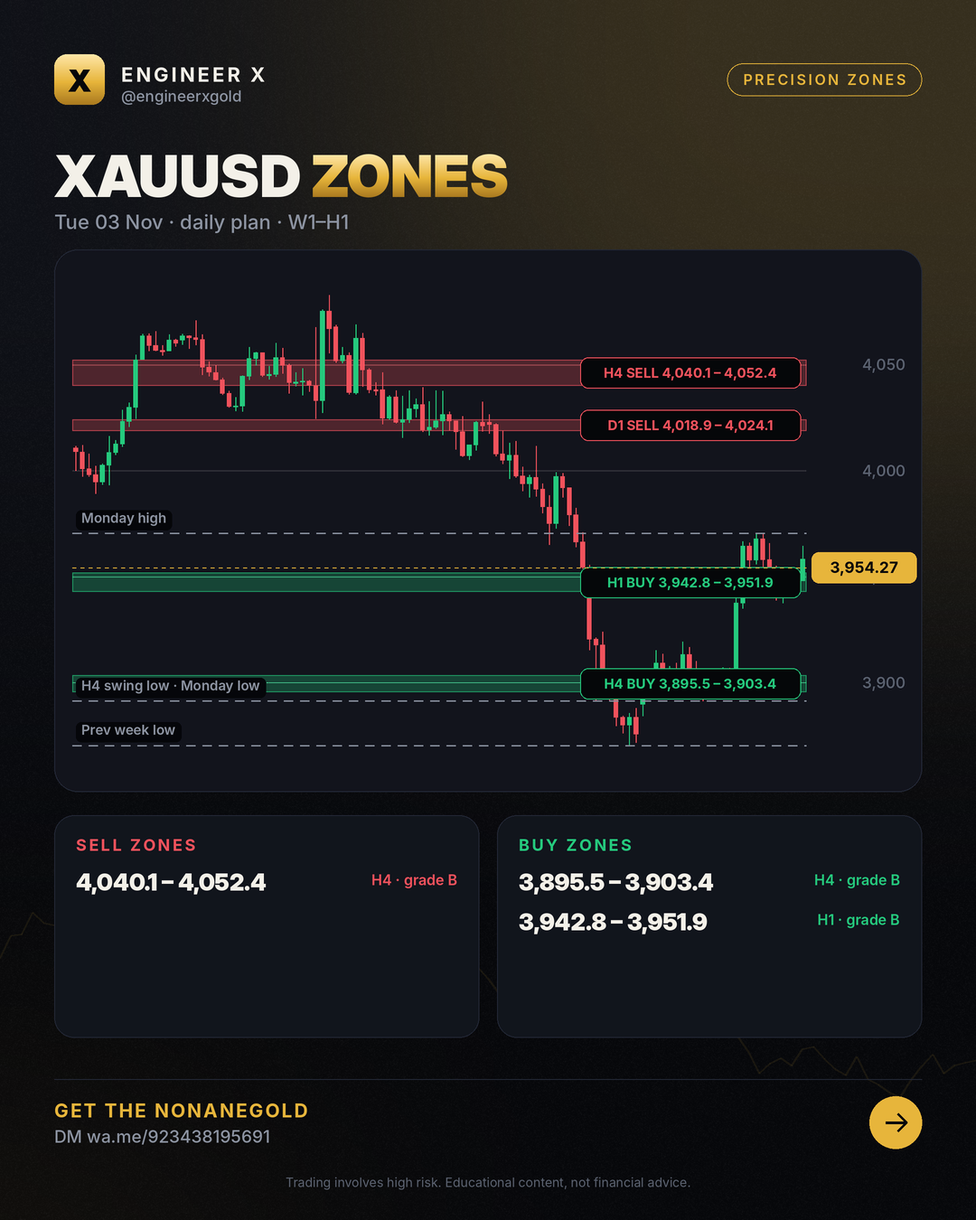
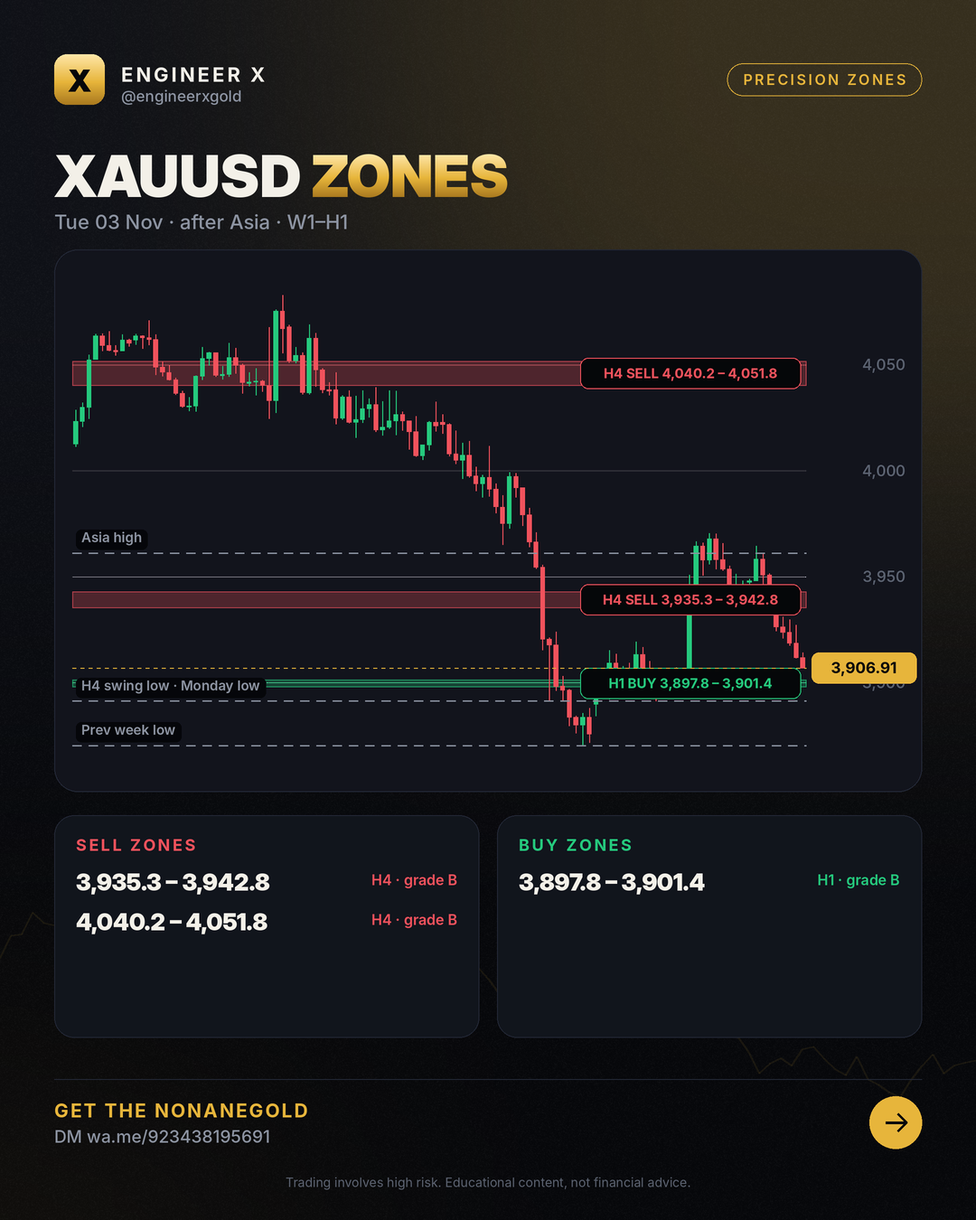
zones 2026-11-03 Tue 03 Nov · after Asia · W1–H1

diff --git a/zones/index.html b/zones/index.html
@@ -4,7 +4,7 @@
 <meta charset="utf-8">
 <meta name="viewport" content="width=device-width,initial-scale=1">
 <title>XAUUSD Zones Today – Buy &amp; Sell Zones (H4, H1) | Engineer X</title>
-<meta name="description" content="XAUUSD buy and sell zones for 2026-11-03: tested W1, D1, H4 and H1 zones with invalidation levels, updated after the Asian, London and New York sessions. Price 3,954.27.">
+<meta name="description" content="XAUUSD buy and sell zones for 2026-11-03: tested W1, D1, H4 and H1 zones with invalidation levels, updated after the Asian, London and New York sessions. Price 3,906.91.">
 <meta name="robots" content="index,follow,max-image-preview:large,max-snippet:-1,max-video-preview:-1">
 <meta name="author" content="Engr. M Ahmad Mehmood">
 <link rel="canonical" href="https://engineerxgold.github.io/zones/">
@@ -12,7 +12,7 @@
 <link rel="apple-touch-icon" href="../img/logo.png">
 <meta property="og:site_name" content="Engineer X">
 <meta property="og:title" content="XAUUSD Zones Today – Buy &amp; Sell Zones (H4, H1) | Engineer X">
-<meta property="og:description" content="XAUUSD buy and sell zones for 2026-11-03: tested W1, D1, H4 and H1 zones with invalidation levels, updated after the Asian, London and New York sessions. Price 3,954.27.">
+<meta property="og:description" content="XAUUSD buy and sell zones for 2026-11-03: tested W1, D1, H4 and H1 zones with invalidation levels, updated after the Asian, London and New York sessions. Price 3,906.91.">
 <meta property="og:type" content="website">
 <meta property="og:url" content="https://engineerxgold.github.io/zones/">
 <meta property="og:image" content="https://engineerxgold.github.io/zones/img/2026-11-03.png">
@@ -22,7 +22,7 @@
 <meta property="og:locale" content="en_US">
 <meta name="twitter:card" content="summary_large_image">
 <meta name="twitter:title" content="XAUUSD Zones Today – Buy &amp; Sell Zones (H4, H1) | Engineer X">
-<meta name="twitter:description" content="XAUUSD buy and sell zones for 2026-11-03: tested W1, D1, H4 and H1 zones with invalidation levels, updated after the Asian, London and New York sessions. Price 3,954.27.">
+<meta name="twitter:description" content="XAUUSD buy and sell zones for 2026-11-03: tested W1, D1, H4 and H1 zones with invalidation levels, updated after the Asian, London and New York sessions. Price 3,906.91.">
 <meta name="twitter:image" content="https://engineerxgold.github.io/zones/img/2026-11-03.png">
 <meta name="twitter:image:alt" content="XAUUSD Zones Today – Buy &amp; Sell Zones (H4, H1) | Engineer X">
 
@@ -101,7 +101,7 @@ footer .fl a{color:var(--muted);margin-right:16px}
 <div class="wrap">
 <nav><a class="logo" href="../"><b>X</b>Engineer X</a>
 <div class="links"><a href="../zones/">Daily Zones</a><a href="../blog/">Learn</a><a href="../ea/">Gold EA</a><a href="../about/">About</a><a class="cta" href="https://wa.me/923438195691">Get the EA</a></div></nav>
-<section class="hero"><span class="chip">Updated Tue 03 Nov · daily plan · W1–H1</span><h1>XAUUSD <span class="gold">precision zones</span></h1><p>XAUUSD buy and sell zones for 2026-11-03: tested W1, D1, H4 and H1 zones with invalidation levels, updated after the Asian, London and New York sessions. Price 3,954.27.</p></section><img src="img/2026-11-03.png" alt="Latest XAUUSD zone map" width="1080" height="1350"><section><h2>Current zones</h2><div style="overflow-x:auto"><table style="width:100%;border-collapse:collapse;font-size:15px"><tr><th align=left>Zone</th><th align=left>Price band</th><th>Grade</th><th align=left>Invalid</th><th align=left>Why</th></tr><tr><td>D1 sell</td><td><b>4,018.88 – 4,024.12</b></td><td>B</td><td>above 4,025.67</td><td>MSNR resistance levels (fresh): D GAP 4021.19, 4H A 4021.19, 1H GAP 4021.81, 15m OCL 4021.54. Wrong if price trades above 4025.67.; Confluence score 2: MSNR + S</td></tr><tr><td>H4 sell</td><td><b>4,040.08 – 4,052.42</b></td><td>B</td><td>above 4,053.96</td><td>Confluence score 2: SMC + QM</td></tr><tr><td>H1 buy</td><td><b>3,942.81 – 3,951.90</b></td><td>B</td><td>below 3,941.26</td><td>MSNR support levels (fresh): 1H GAP 3946.37, 30m V 3945.12, 15m GAP 3945.12, 15m GAP 3946.82, 15m V 3949.59. Wrong if price trades below 3941.26.; Confluence sc</td></tr><tr><td>H4 buy</td><td><b>3,895.50 – 3,903.42</b></td><td>B</td><td>below 3,893.95</td><td>MSNR support levels (fresh): 4H V 3897.81, 1H V 3901.11, 30m V 3901.11, 15m OCL 3901.11. Wrong if price trades below 3893.95.; Confluence score 5: MSNR + ICT + </td></tr></table></div></section><section><h2>Honest scorecard</h2><div class="grid"><div class="card"><div class="n">221</div><p>zones published (30 days)</p></div><div class="card"><div class="n">112</div><p>held (moved 1 hourly ATR away)</p></div><div class="card"><div class="n">19</div><p>broke (traded beyond the invalidation)</p></div><div class="card"><div class="n">85%</div><p>hold rate of decided zones</p></div></div></section><div class="ctabox"><h3>🤖 Trade the zones with the NonaneGold</h3><p>Free signals group access + setup help Message us and we will help you set it up.</p><div class="btns"><a class="btn gold" href="https://wa.me/923438195691">Get the EA on Telegram</a><a class="btn ghost" href="../ea/">About the EA</a></div></div><section><h2>Archive</h2><div class="grid posts"><a class="card" href="2026-11-03/"><span class="date">2026-11-03</span><h3>XAUUSD zones 2026-11-03</h3></a><a class="card" href="2026-11-02/"><span class="date">2026-11-02</span><h3>XAUUSD zones 2026-11-02</h3></a><a class="card" href="2026-10-30/"><span class="date">2026-10-30</span><h3>XAUUSD zones 2026-10-30</h3></a><a class="card" href="2026-10-29/"><span class="date">2026-10-29</span><h3>XAUUSD zones 2026-10-29</h3></a><a class="card" href="2026-10-28/"><span class="date">2026-10-28</span><h3>XAUUSD zones 2026-10-28</h3></a><a class="card" href="2026-10-27/"><span class="date">2026-10-27</span><h3>XAUUSD zones 2026-10-27</h3></a><a class="card" href="2026-10-26/"><span class="date">2026-10-26</span><h3>XAUUSD zones 2026-10-26</h3></a><a class="card" href="2026-10-23/"><span class="date">2026-10-23</span><h3>XAUUSD zones 2026-10-23</h3></a><a class="card" href="2026-10-22/"><span class="date">2026-10-22</span><h3>XAUUSD zones 2026-10-22</h3></a><a class="card" href="2026-10-21/"><span class="date">2026-10-21</span><h3>XAUUSD zones 2026-10-21</h3></a><a class="card" href="2026-10-20/"><span class="date">2026-10-20</span><h3>XAUUSD zones 2026-10-20</h3></a><a class="card" href="2026-10-19/"><span class="date">2026-10-19</span><h3>XAUUSD zones 2026-10-19</h3></a><a class="card" href="2026-10-16/"><span class="date">2026-10-16</span><h3>XAUUSD zones 2026-10-16</h3></a><a class="card" href="2026-10-15/"><span class="date">2026-10-15</span><h3>XAUUSD zones 2026-10-15</h3></a><a class="card" href="2026-10-14/"><span class="date">2026-10-14</span><h3>XAUUSD zones 2026-10-14</h3></a><a class="card" href="2026-10-13/"><span class="date">2026-10-13</span><h3>XAUUSD zones 2026-10-13</h3></a></div></section>
+<section class="hero"><span class="chip">Updated Tue 03 Nov · after Asia · W1–H1</span><h1>XAUUSD <span class="gold">precision zones</span></h1><p>XAUUSD buy and sell zones for 2026-11-03: tested W1, D1, H4 and H1 zones with invalidation levels, updated after the Asian, London and New York sessions. Price 3,906.91.</p></section><img src="img/2026-11-03.png" alt="Latest XAUUSD zone map" width="1080" height="1350"><section><h2>Current zones</h2><div style="overflow-x:auto"><table style="width:100%;border-collapse:collapse;font-size:15px"><tr><th align=left>Zone</th><th align=left>Price band</th><th>Grade</th><th align=left>Invalid</th><th align=left>Why</th></tr><tr><td>H4 sell</td><td><b>3,935.30 – 3,942.85</b></td><td>B</td><td>above 3,944.29</td><td>MSNR resistance levels (fresh): 4H SBR 3937.46, 15m GAP 3937.47, 15m GAP 3940.69. Wrong if price trades above 3944.29.; Confluence score 2: MSNR + ICT</td></tr><tr><td>H4 sell</td><td><b>4,040.23 – 4,051.76</b></td><td>B</td><td>above 4,053.20</td><td>Confluence score 2: SMC + QM</td></tr><tr><td>H1 buy</td><td><b>3,897.81 – 3,901.37</b></td><td>B</td><td>below 3,896.37</td><td>H1 demand: 2 small base candles (Mon 02 Nov 06:00 NY), then a strong move up (4.6x ATR). Untouched since. Wrong if price trades below 3897.04.; MSNR levels insi</td></tr></table></div></section><section><h2>Honest scorecard</h2><div class="grid"><div class="card"><div class="n">226</div><p>zones published (30 days)</p></div><div class="card"><div class="n">112</div><p>held (moved 1 hourly ATR away)</p></div><div class="card"><div class="n">20</div><p>broke (traded beyond the invalidation)</p></div><div class="card"><div class="n">85%</div><p>hold rate of decided zones</p></div></div></section><div class="ctabox"><h3>🤖 Trade the zones with the NonaneGold</h3><p>Free signals group access + setup help Message us and we will help you set it up.</p><div class="btns"><a class="btn gold" href="https://wa.me/923438195691">Get the EA on Telegram</a><a class="btn ghost" href="../ea/">About the EA</a></div></div><section><h2>Archive</h2><div class="grid posts"><a class="card" href="2026-11-03/"><span class="date">2026-11-03</span><h3>XAUUSD zones 2026-11-03</h3></a><a class="card" href="2026-11-02/"><span class="date">2026-11-02</span><h3>XAUUSD zones 2026-11-02</h3></a><a class="card" href="2026-10-30/"><span class="date">2026-10-30</span><h3>XAUUSD zones 2026-10-30</h3></a><a class="card" href="2026-10-29/"><span class="date">2026-10-29</span><h3>XAUUSD zones 2026-10-29</h3></a><a class="card" href="2026-10-28/"><span class="date">2026-10-28</span><h3>XAUUSD zones 2026-10-28</h3></a><a class="card" href="2026-10-27/"><span class="date">2026-10-27</span><h3>XAUUSD zones 2026-10-27</h3></a><a class="card" href="2026-10-26/"><span class="date">2026-10-26</span><h3>XAUUSD zones 2026-10-26</h3></a><a class="card" href="2026-10-23/"><span class="date">2026-10-23</span><h3>XAUUSD zones 2026-10-23</h3></a><a class="card" href="2026-10-22/"><span class="date">2026-10-22</span><h3>XAUUSD zones 2026-10-22</h3></a><a class="card" href="2026-10-21/"><span class="date">2026-10-21</span><h3>XAUUSD zones 2026-10-21</h3></a><a class="card" href="2026-10-20/"><span class="date">2026-10-20</span><h3>XAUUSD zones 2026-10-20</h3></a><a class="card" href="2026-10-19/"><span class="date">2026-10-19</span><h3>XAUUSD zones 2026-10-19</h3></a><a class="card" href="2026-10-16/"><span class="date">2026-10-16</span><h3>XAUUSD zones 2026-10-16</h3></a><a class="card" href="2026-10-15/"><span class="date">2026-10-15</span><h3>XAUUSD zones 2026-10-15</h3></a><a class="card" href="2026-10-14/"><span class="date">2026-10-14</span><h3>XAUUSD zones 2026-10-14</h3></a><a class="card" href="2026-10-13/"><span class="date">2026-10-13</span><h3>XAUUSD zones 2026-10-13</h3></a></div></section>
 <footer>
 <div class="warn"><b>Risk warning:</b> Trading gold, forex and CFDs carries a high risk of losing money and is not suitable for everyone. Past results do not guarantee future results. Everything on this site is educational and not financial advice. We are an introducing partner of our broker and may earn a commission on accounts opened through our link.</div>
 <p class="fl" style="margin-top:18px"><a href="../about/">About &amp; methodology</a><a href="../privacy.html">Privacy</a><a href="../terms.html">Terms &amp; risk disclosure</a><a href="../feed.xml">RSS</a><a href="https://t.me/engineerxgold">Telegram</a></p>

diff --git a/zones/2026-11-03/index.html b/zones/2026-11-03/index.html
@@ -4,7 +4,7 @@
 <meta charset="utf-8">
 <meta name="viewport" content="width=device-width,initial-scale=1">
 <title>Gold Support Resistance – 03 Nov 2026 (W1–H1)</title>
-<meta name="description" content="XAUUSD buy and sell zones for 2026-11-03: tested W1, D1, H4 and H1 zones with invalidation levels, updated after the Asian, London and New York sessions. Price 3,954.27.">
+<meta name="description" content="XAUUSD buy and sell zones for 2026-11-03: tested W1, D1, H4 and H1 zones with invalidation levels, updated after the Asian, London and New York sessions. Price 3,906.91.">
 <meta name="robots" content="index,follow,max-image-preview:large,max-snippet:-1,max-video-preview:-1">
 <meta name="author" content="Engr. M Ahmad Mehmood">
 <link rel="canonical" href="https://engineerxgold.github.io/zones/2026-11-03/">
@@ -12,7 +12,7 @@
 <link rel="apple-touch-icon" href="../../img/logo.png">
 <meta property="og:site_name" content="Engineer X">
 <meta property="og:title" content="Gold Support Resistance – 03 Nov 2026 (W1–H1)">
-<meta property="og:description" content="XAUUSD buy and sell zones for 2026-11-03: tested W1, D1, H4 and H1 zones with invalidation levels, updated after the Asian, London and New York sessions. Price 3,954.27.">
+<meta property="og:description" content="XAUUSD buy and sell zones for 2026-11-03: tested W1, D1, H4 and H1 zones with invalidation levels, updated after the Asian, London and New York sessions. Price 3,906.91.">
 <meta property="og:type" content="article">
 <meta property="og:url" content="https://engineerxgold.github.io/zones/2026-11-03/">
 <meta property="og:image" content="https://engineerxgold.github.io/zones/img/2026-11-03.png">
@@ -22,7 +22,7 @@
 <meta property="og:locale" content="en_US">
 <meta name="twitter:card" content="summary_large_image">
 <meta name="twitter:title" content="Gold Support Resistance – 03 Nov 2026 (W1–H1)">
-<meta name="twitter:description" content="XAUUSD buy and sell zones for 2026-11-03: tested W1, D1, H4 and H1 zones with invalidation levels, updated after the Asian, London and New York sessions. Price 3,954.27.">
+<meta name="twitter:description" content="XAUUSD buy and sell zones for 2026-11-03: tested W1, D1, H4 and H1 zones with invalidation levels, updated after the Asian, London and New York sessions. Price 3,906.91.">
 <meta name="twitter:image" content="https://engineerxgold.github.io/zones/img/2026-11-03.png">
 <meta name="twitter:image:alt" content="Gold Support Resistance – 03 Nov 2026 (W1–H1)">
 
@@ -32,7 +32,7 @@
 <link rel="preconnect" href="https://fonts.googleapis.com">
 <link rel="preconnect" href="https://fonts.gstatic.com" crossorigin>
 <link href="https://fonts.googleapis.com/css2?family=Inter:wght@400;500;600;800;900&display=swap" rel="stylesheet">
-<script type="application/ld+json">{"@context": "https://schema.org", "@type": "Organization", "@id": "https://engineerxgold.github.io/#organization", "name": "Engineer X", "url": "https://engineerxgold.github.io/", "logo": {"@type": "ImageObject", "url": "https://engineerxgold.github.io/img/logo.png", "width": 512, "height": 512}, "sameAs": ["https://t.me/engineerxgold"]}</script><script type="application/ld+json">{"@context": "https://schema.org", "@type": "Article", "headline": "Gold Support Resistance – 03 Nov 2026 (W1–H1)", "datePublished": "2026-11-03T08:00:00+05:00", "dateModified": "2026-11-03T06:04:14+05:00", "author": {"@type": "Person", "@id": "https://engineerxgold.github.io/about/#author", "name": "Engr. M Ahmad Mehmood", "url": "https://engineerxgold.github.io/about/", "jobTitle": "MQL5 Expert Advisor developer and gold market analyst", "worksFor": {"@id": "https://engineerxgold.github.io/#organization"}}, "publisher": {"@id": "https://engineerxgold.github.io/#organization"}, "image": "https://engineerxgold.github.io/zones/img/2026-11-03.png", "mainEntityOfPage": "https://engineerxgold.github.io/zones/2026-11-03/"}</script>
+<script type="application/ld+json">{"@context": "https://schema.org", "@type": "Organization", "@id": "https://engineerxgold.github.io/#organization", "name": "Engineer X", "url": "https://engineerxgold.github.io/", "logo": {"@type": "ImageObject", "url": "https://engineerxgold.github.io/img/logo.png", "width": 512, "height": 512}, "sameAs": ["https://t.me/engineerxgold"]}</script><script type="application/ld+json">{"@context": "https://schema.org", "@type": "Article", "headline": "Gold Support Resistance – 03 Nov 2026 (W1–H1)", "datePublished": "2026-11-03T08:00:00+05:00", "dateModified": "2026-11-03T13:03:56+05:00", "author": {"@type": "Person", "@id": "https://engineerxgold.github.io/about/#author", "name": "Engr. M Ahmad Mehmood", "url": "https://engineerxgold.github.io/about/", "jobTitle": "MQL5 Expert Advisor developer and gold market analyst", "worksFor": {"@id": "https://engineerxgold.github.io/#organization"}}, "publisher": {"@id": "https://engineerxgold.github.io/#organization"}, "image": "https://engineerxgold.github.io/zones/img/2026-11-03.png", "mainEntityOfPage": "https://engineerxgold.github.io/zones/2026-11-03/"}</script>
 
 <style>
 :root{--gold:#E7B53B;--gold-hi:#FFE7A8;--bg:#07080B;--bg2:#0E1016;--panel:#12151D;--line:#232836;--green:#25C97D;--red:#F0525C;--text:#F3F0E8;--muted:#8C93A1}
@@ -101,7 +101,7 @@ footer .fl a{color:var(--muted);margin-right:16px}
 <div class="wrap">
 <nav><a class="logo" href="../../"><b>X</b>Engineer X</a>
 <div class="links"><a href="../../zones/">Daily Zones</a><a href="../../blog/">Learn</a><a href="../../ea/">Gold EA</a><a href="../../about/">About</a><a class="cta" href="https://wa.me/923438195691">Get the EA</a></div></nav>
-<article><p class="crumbs"><a href="../../">Home</a> › <a href="../">Zones</a> › 2026-11-03</p><h1>Gold Support Resistance – 03 Nov 2026 (W1–H1)</h1><p class="byline">Tue 03 Nov · daily plan · W1–H1 · by Engr. M Ahmad Mehmood</p><img src="../img/2026-11-03.png" alt="XAUUSD zone map 2026-11-03" width="1080" height="1350" loading="eager"><h2>Zones</h2><div style="overflow-x:auto"><table style="width:100%;border-collapse:collapse;font-size:15px"><tr><th align=left>Zone</th><th align=left>Price band</th><th>Grade</th><th align=left>Invalid</th><th align=left>Why</th></tr><tr><td>D1 sell</td><td><b>4,018.88 – 4,024.12</b></td><td>B</td><td>above 4,025.67</td><td>MSNR resistance levels (fresh): D GAP 4021.19, 4H A 4021.19, 1H GAP 4021.81, 15m OCL 4021.54. Wrong if price trades above 4025.67.; Confluence score 2: MSNR + S</td></tr><tr><td>H4 sell</td><td><b>4,040.08 – 4,052.42</b></td><td>B</td><td>above 4,053.96</td><td>Confluence score 2: SMC + QM</td></tr><tr><td>H1 buy</td><td><b>3,942.81 – 3,951.90</b></td><td>B</td><td>below 3,941.26</td><td>MSNR support levels (fresh): 1H GAP 3946.37, 30m V 3945.12, 15m GAP 3945.12, 15m GAP 3946.82, 15m V 3949.59. Wrong if price trades below 3941.26.; Confluence sc</td></tr><tr><td>H4 buy</td><td><b>3,895.50 – 3,903.42</b></td><td>B</td><td>below 3,893.95</td><td>MSNR support levels (fresh): 4H V 3897.81, 1H V 3901.11, 30m V 3901.11, 15m OCL 3901.11. Wrong if price trades below 3893.95.; Confluence score 5: MSNR + ICT + </td></tr></table></div><h2>How to read this map</h2><p>Bands are where price is expected to react; they are not entries. Trading beyond the invalidation price ends the zone; each zone counts once (first touch). Highs and lows listed as liquidity are targets: on 10 years of gold price ran through them more often than through random levels.</p><div class="ctabox"><h3>🤖 Trade the zones with the NonaneGold</h3><p>Free signals group access + setup help Message us and we will help you set it up.</p><div class="btns"><a class="btn gold" href="https://wa.me/923438195691">Get the EA on Telegram</a><a class="btn ghost" href="../../ea/">About the EA</a></div></div></article>
+<article><p class="crumbs"><a href="../../">Home</a> › <a href="../">Zones</a> › 2026-11-03</p><h1>Gold Support Resistance – 03 Nov 2026 (W1–H1)</h1><p class="byline">Tue 03 Nov · after Asia · W1–H1 · by Engr. M Ahmad Mehmood</p><img src="../img/2026-11-03.png" alt="XAUUSD zone map 2026-11-03" width="1080" height="1350" loading="eager"><h2>Zones</h2><div style="overflow-x:auto"><table style="width:100%;border-collapse:collapse;font-size:15px"><tr><th align=left>Zone</th><th align=left>Price band</th><th>Grade</th><th align=left>Invalid</th><th align=left>Why</th></tr><tr><td>H4 sell</td><td><b>3,935.30 – 3,942.85</b></td><td>B</td><td>above 3,944.29</td><td>MSNR resistance levels (fresh): 4H SBR 3937.46, 15m GAP 3937.47, 15m GAP 3940.69. Wrong if price trades above 3944.29.; Confluence score 2: MSNR + ICT</td></tr><tr><td>H4 sell</td><td><b>4,040.23 – 4,051.76</b></td><td>B</td><td>above 4,053.20</td><td>Confluence score 2: SMC + QM</td></tr><tr><td>H1 buy</td><td><b>3,897.81 – 3,901.37</b></td><td>B</td><td>below 3,896.37</td><td>H1 demand: 2 small base candles (Mon 02 Nov 06:00 NY), then a strong move up (4.6x ATR). Untouched since. Wrong if price trades below 3897.04.; MSNR levels insi</td></tr></table></div><h2>How to read this map</h2><p>Bands are where price is expected to react; they are not entries. Trading beyond the invalidation price ends the zone; each zone counts once (first touch). Highs and lows listed as liquidity are targets: on 10 years of gold price ran through them more often than through random levels.</p><div class="ctabox"><h3>🤖 Trade the zones with the NonaneGold</h3><p>Free signals group access + setup help Message us and we will help you set it up.</p><div class="btns"><a class="btn gold" href="https://wa.me/923438195691">Get the EA on Telegram</a><a class="btn ghost" href="../../ea/">About the EA</a></div></div></article>
 <footer>
 <div class="warn"><b>Risk warning:</b> Trading gold, forex and CFDs carries a high risk of losing money and is not suitable for everyone. Past results do not guarantee future results. Everything on this site is educational and not financial advice. We are an introducing partner of our broker and may earn a commission on accounts opened through our link.</div>
 <p class="fl" style="margin-top:18px"><a href="../../about/">About &amp; methodology</a><a href="../../privacy.html">Privacy</a><a href="../../terms.html">Terms &amp; risk disclosure</a><a href="../../feed.xml">RSS</a><a href="https://t.me/engineerxgold">Telegram</a></p>

diff --git a/index.html b/index.html
@@ -101,7 +101,7 @@ footer .fl a{color:var(--muted);margin-right:16px}
 <div class="wrap">
 <nav><a class="logo" href="./"><b>X</b>Engineer X</a>
 <div class="links"><a href="./zones/">Daily Zones</a><a href="./blog/">Learn</a><a href="./ea/">Gold EA</a><a href="./about/">About</a><a class="cta" href="https://wa.me/923438195691">Get the EA</a></div></nav>
-<section class="hero"><span class="chip">XAUUSD · W1–H1 · every session</span><h1>Gold <span class="gold">precision zones</span>, updated after every session</h1><p>Tested buy and sell zones with clear invalidation, a scorecard of every result, and the NonaneGold for traders who want it automated.</p><div class="btns"><a class="btn gold" href="zones/">See today's zones</a><a class="btn ghost" href="https://wa.me/923438195691">Get the EA</a></div></section><section><h2>Latest map Tue 03 Nov · daily plan · W1–H1</h2><img src="zones/img/2026-11-03.png" alt="Latest XAUUSD zones" width="1080" height="1350"></section><div class="ctabox"><h3>🤖 Trade the zones with the NonaneGold</h3><p>Free signals group access + setup help Message us and we will help you set it up.</p><div class="btns"><a class="btn gold" href="https://wa.me/923438195691">Get the EA on Telegram</a><a class="btn ghost" href="ea/">About the EA</a></div></div><section><h2>Learn</h2><div class="grid posts"><a class="card" href="blog/gold-support-resistance-today-s-map-key-zones/"><span class="date">2026-11-03</span><h3>Gold Support Resistance: Today&#x27;s Map &amp; Key Zones</h3></a><a class="card" href="blog/gold-supply-and-demand-zones-h4-setup-levels/"><span class="date">2026-11-01</span><h3>Gold Supply and Demand Zones: H4 Setup &amp; Levels</h3></a><a class="card" href="blog/gold-supply-and-demand-zones-h4-h1-trading-map-2026-10-31/"><span class="date">2026-10-31</span><h3>Gold Supply and Demand Zones: H4 &amp; H1 Trading Map</h3></a><a class="card" href="blog/gold-price-today-live-technical-levels-zone-map/"><span class="date">2026-10-30</span><h3>Gold Price Today: Live Technical Levels &amp; Zone Map</h3></a><a class="card" href="blog/gold-trading-h4-trend-zones-liquidity-map/"><span class="date">2026-10-29</span><h3>Gold Trading: H4 Trend Zones &amp; Liquidity Map</h3></a><a class="card" href="blog/gold-trading-analyzing-today-s-zones-liquidity/"><span class="date">2026-10-28</span><h3>Gold Trading: Analyzing Today&#x27;s Zones &amp; Liquidity</h3></a></div></section><section><h2>FAQ</h2><details><summary>What is a precision zone?</summary><p>A point of interest from a trading book (OTE 0.705, balanced price range, weekly close level, daily order block) that held better than random levels on 10 years of gold. Each zone has an invalidation price.</p></details><details><summary>How often are the zones updated?</summary><p>A daily plan at the Asian open, then after the Asian, London and New York sessions.</p></details><details><summary>Are these trade signals?</summary><p>No. Zones are areas to watch. Wait for your own confirmation and manage risk.</p></details><details><summary>How do I get the Gold EA?</summary><p>Message us on Telegram or WhatsApp; we answer and help with the setup.</p></details></section>
+<section class="hero"><span class="chip">XAUUSD · W1–H1 · every session</span><h1>Gold <span class="gold">precision zones</span>, updated after every session</h1><p>Tested buy and sell zones with clear invalidation, a scorecard of every result, and the NonaneGold for traders who want it automated.</p><div class="btns"><a class="btn gold" href="zones/">See today's zones</a><a class="btn ghost" href="https://wa.me/923438195691">Get the EA</a></div></section><section><h2>Latest map Tue 03 Nov · after Asia · W1–H1</h2><img src="zones/img/2026-11-03.png" alt="Latest XAUUSD zones" width="1080" height="1350"></section><div class="ctabox"><h3>🤖 Trade the zones with the NonaneGold</h3><p>Free signals group access + setup help Message us and we will help you set it up.</p><div class="btns"><a class="btn gold" href="https://wa.me/923438195691">Get the EA on Telegram</a><a class="btn ghost" href="ea/">About the EA</a></div></div><section><h2>Learn</h2><div class="grid posts"><a class="card" href="blog/gold-support-resistance-today-s-map-key-zones/"><span class="date">2026-11-03</span><h3>Gold Support Resistance: Today&#x27;s Map &amp; Key Zones</h3></a><a class="card" href="blog/gold-supply-and-demand-zones-h4-setup-levels/"><span class="date">2026-11-01</span><h3>Gold Supply and Demand Zones: H4 Setup &amp; Levels</h3></a><a class="card" href="blog/gold-supply-and-demand-zones-h4-h1-trading-map-2026-10-31/"><span class="date">2026-10-31</span><h3>Gold Supply and Demand Zones: H4 &amp; H1 Trading Map</h3></a><a class="card" href="blog/gold-price-today-live-technical-levels-zone-map/"><span class="date">2026-10-30</span><h3>Gold Price Today: Live Technical Levels &amp; Zone Map</h3></a><a class="card" href="blog/gold-trading-h4-trend-zones-liquidity-map/"><span class="date">2026-10-29</span><h3>Gold Trading: H4 Trend Zones &amp; Liquidity Map</h3></a><a class="card" href="blog/gold-trading-analyzing-today-s-zones-liquidity/"><span class="date">2026-10-28</span><h3>Gold Trading: Analyzing Today&#x27;s Zones &amp; Liquidity</h3></a></div></section><section><h2>FAQ</h2><details><summary>What is a precision zone?</summary><p>A point of interest from a trading book (OTE 0.705, balanced price range, weekly close level, daily order block) that held better than random levels on 10 years of gold. Each zone has an invalidation price.</p></details><details><summary>How often are the zones updated?</summary><p>A daily plan at the Asian open, then after the Asian, London and New York sessions.</p></details><details><summary>Are these trade signals?</summary><p>No. Zones are areas to watch. Wait for your own confirmation and manage risk.</p></details><details><summary>How do I get the Gold EA?</summary><p>Message us on Telegram or WhatsApp; we answer and help with the setup.</p></details></section>
 <footer>
 <div class="warn"><b>Risk warning:</b> Trading gold, forex and CFDs carries a high risk of losing money and is not suitable for everyone. Past results do not guarantee future results. Everything on this site is educational and not financial advice. We are an introducing partner of our broker and may earn a commission on accounts opened through our link.</div>
 <p class="fl" style="margin-top:18px"><a href="./about/">About &amp; methodology</a><a href="./privacy.html">Privacy</a><a href="./terms.html">Terms &amp; risk disclosure</a><a href="./feed.xml">RSS</a><a href="https://t.me/engineerxgold">Telegram</a></p>
